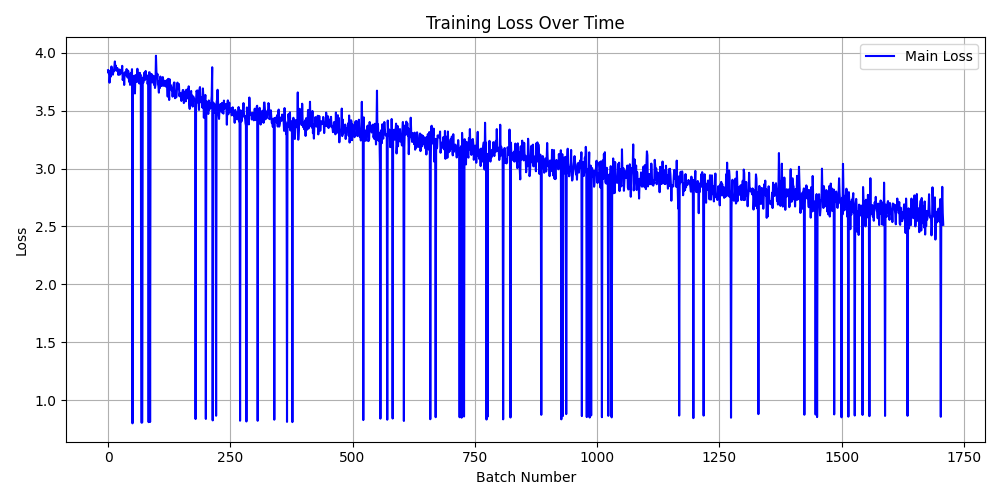
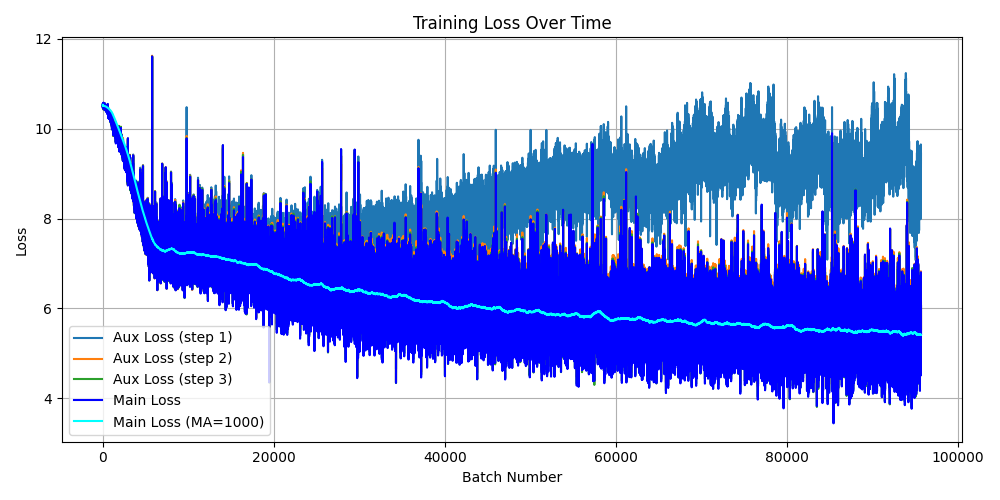
readme

diff --git a/plot_losses.py b/plot_losses.py
@@ -1,10 +1,13 @@
 import pickle
 import matplotlib.pyplot as plt
+import argparse
 
-def plot_losses(losses_file):
+def plot_losses(losses_file, ma=0):
     with open(losses_file, "rb") as f:
         all_losses = pickle.load(f)
     print(f"Loaded {len(all_losses)} loss entries from {losses_file}")
+
+
 
     if not all_losses:
         print("No losses to plot.")
@@ -45,14 +48,23 @@ def plot_losses(losses_file):
                     series.append(None)
     else:
         raise ValueError("Unsupported loss entry type. Expected number or dict with 'loss' key.")
-
     plt.figure(figsize=(10, 5))
-    plt.plot(main_losses, label="Main Loss", color="blue")
 
     for step in sorted(aux_series.keys()):
         series = aux_series[step]
         label = f"Aux Loss (step {step})"
         plt.plot(series, label=label)
+
+    plt.plot(main_losses, label="Main Loss", color="blue")
+
+    if ma > 0:
+        avg = []
+        for i in range(len(main_losses)):
+            window = main_losses[max(0, i - ma + 1):i + 1]
+            avg.append(sum(window) / len(window))
+
+        plt.plot(avg, label=f"Main Loss (MA={ma})", color="cyan")
+
 
     plt.xlabel("Batch Number")
     plt.ylabel("Loss")
@@ -65,5 +77,9 @@ def plot_losses(losses_file):
 
 
 if __name__ == "__main__":
-    plot_losses('losses.pkl')
+    args = argparse.ArgumentParser(description="Plot training losses from a pickle file.")
+    args.add_argument("--losses_file", type=str, default="losses.pkl", help="Path to the pickle file containing losses.")
+    args.add_argument("--moving_average", type=int, default=0, help="Window size for moving average smoothing.")
+    parsed_args = args.parse_args()
+    plot_losses(parsed_args.losses_file, parsed_args.moving_average)
     print("Loss plot saved as 'training_loss_plot.png'")

diff --git a/README.md b/README.md
@@ -1,0 +1,124 @@
+# MicroLM
+
+Small language-model playground with three training styles in one codebase:
+
+- Standard decoder-only transformer (`models/base.py`)
+- Recursive interleaved refiner (`models/recursive.py`)
+- Diffusion-style token refiner (`models/diffusion.py`)
+
+If you want to tweak architecture, loss weights, or training scale without touching script logic, you mostly do it in `./configs`.
+
+## What is in this repo
+
+- `train.py`: trains either base decoder or recursive model (depends on `model_type` in config)
+- `test.py`: interactive generation for base or recursive checkpoints
+- `train_diffusion_refiner.py`: diffusion model train/test entrypoint
+- `compare_models.py`: quick eval pass to compare configs/checkpoints
+- `plot_losses.py`: plots `losses.pkl` to `training_loss_plot.png`
+- `models/`: model implementations
+- `configs/`: experiment presets
+- `checkpoints/`: saved model weights
+
+## Setup
+
+This project assumes Python + PyTorch.
+
+```powershell
+python -m venv .venv
+.\.venv\Scripts\activate
+pip install torch transformers datasets tqdm matplotlib pydantic
+```
+
+Optional:
+
+- `flash-attn` if you plan to enable `use_flash_attn` in configs.
+
+## Configs
+
+Configs are loaded from `./configs/<name>.json` using `--cfg <name>`.
+
+Current presets:
+
+- `microlm`, `microlmtest`: base decoder runs
+- `refiner-7m`, `refiner-15m`: recursive runs
+- `diffuser`, `diffuserlarge`: diffusion runs
+
+Notes:
+
+- Tokenizer defaults to `bert-base-uncased`.
+- Dataset defaults to `BEE-spoke-data/fineweb-1M_longish`.
+- Epoch length is controlled by `estimated_tokens_per_epoch` (streaming dataset), not strict dataset length.
+
+## Train
+
+Base decoder:
+
+```powershell
+python train.py --cfg microlm
+```
+
+Recursive model:
+
+```powershell
+python train.py --cfg refiner-7m
+```
+
+Diffusion model:
+
+```powershell
+python train_diffusion_refiner.py --cfg diffuser --mode train
+```
+
+Each run writes checkpoints using `checkpoint_prefix` from the config and logs losses to `losses.pkl`.
+
+## Inference
+
+Base or recursive:
+
+```powershell
+python test.py --cfg refiner-7m --checkpoint .\checkpoints\refiner-7m-epoch-1-batch-100.pt
+```
+
+Diffusion:
+
+```powershell
+python train_diffusion_refiner.py --cfg diffuser --mode test --checkpoint .\checkpoints\diffuser-7m-diffusion-final.pt
+```
+
+Both launch an interactive prompt loop in the terminal.
+
+## Compare models
+
+```powershell
+python compare_models.py --cfgs microlm,refiner-7m,diffuser --max-batches 50
+```
+
+By default, each config uses its own `resume_checkpoint_path`.
+
+If you want to override checkpoints manually, pass a comma-separated list in the same order as `--cfgs`.
+
+## Plot losses
+
+```powershell
+python plot_losses.py --losses_file losses.pkl --moving_average 100
+```
+
+This writes `training_loss_plot.png`.
+
+## Training curves
+
+### Base MicroLM
+
+![Base MicroLM loss](training_loss_plot_2.png)
+
+### Recursive model
+
+![Recursive model loss](training_loss_plot.png)
+
+### Diffusion refiner (small)
+
+![Diffusion small loss](training_loss_plot_diffuser_small.png)
+
+### Diffusion refiner (large)
+
+![Diffusion large loss](training_loss_plot_diffuser_large_1.png)
